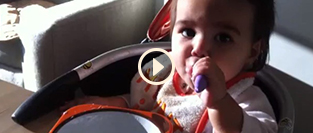
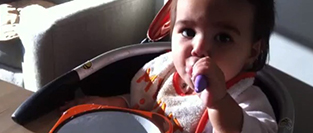
New Content
West Elm Knives and Happy Valentine's Day

Changed region(s): [[0.4313, 0.3609, 0.5751, 0.6617]]

diff --git a/index.html b/index.html
@@ -49,77 +49,56 @@
   			</nav>
       </header>
 
-      <div class="new-ribbon"><img src="img/new-ribbon.png" alt="new ribbon" width="30" height="42"></div>
-
-      <div class="new-ribbon2"><img src="img/new-ribbon.png" alt="new ribbon" width="30" height="42"></div>
-
       <section class="content" role="main">
 
-        <article class="pegg-x1 pegg-y1">
-            <div>
-            <img src="img/tree.jpg" alt="snow covered tree in sheep meadow central park new york city" width="313" height="313">
-            </div>
+        <article class="pegg-x1 pegg-y1 new">
+          <div>
+            <img src="img/knives.jpg" alt="west elm market damascus steel knives" width="313" height="313">
+          </div>
         </article>
 
         <article class="pegg-x6 pegg-y11">
-            <div>
-            <a class="audio-swap" href="http://ex.fm/song/dfslk" target="_blank"></a>
-            </div>
+          <div>
+            <a href="http://ex.fm/song/dfslk" target="_blank"><img src="img/album-cover.jpg" alt="album cover art" height="133" width="133"><div class="play-button">Play Video</div></a>
+          </div>
         </article>
 
         <article class="pegg-x1 pegg-y16">
-            <div>
+          <div>
             <img src="img/brothers.jpg" alt="old photo of brothers" width="313" height="133">
-            </div>
+          </div>
         </article>
 
         <article class="pegg-x11 pegg-y1">
-            <div>
+          <div>
             <img src="img/momandbean-small.jpg" alt="grandmother and daughter on chair" width="133" height="133">
-            </div>
-        </article>
-
-        <article class="pegg-x11 pegg-y6">
-            <div>
-            <img src="img/pizza.jpg" alt="homemade pizza" width="313" height="420">
-            </div>
-        </article>
-
-        <article class="pegg-x21 pegg-y1">
-            <div>
-            <img src="img/reese.jpg" alt="chocolate lab in the snow" width="133" height="133">
-            </div>
-        </article>
-
-        <article class="pegg-x26 pegg-y1">
-            <div>
-            <img src="img/photo-booth.jpg" alt="retro photo booth" width="133" height="133">
-            </div>
+          </div>
         </article>
 
         <article class="pegg-x21 pegg-y6">
-            <div>
-            <a class="video-swap" href="http://www.youtube.com/watch?v=fGSciM56SxA" target="_blank"></a>
-            </div>
-        </article>
-
-        <article class="pegg-x21 pegg-y11">
-            <div>
-            <img src="img/lili-bean.jpg" alt="child with bunny hat and mother" width="313" height="240">
-            </div>
-        </article>
-
-
-      <!-- <article class="pegg-x7 pegg-y15">
           <div>
-  					<blockquote>
-              <p>A man travels the world over in search of what he needs and returns home to find it.</p>
-                <footer>
-                  &ndash; <cite>George Moore</cite>
-                </footer>
-            </blockquote>
+            <img src="img/pizza.jpg" alt="homemade pizza" width="313" height="420">
           </div>
-        </article> -->
+        </article>
+
+        <article class="pegg-x21 pegg-y1">
+          <div>
+            <img src="img/reese.jpg" alt="chocolate lab in the snow" width="133" height="133">
+          </div>
+        </article>
+
+        <article class="pegg-x11 pegg-y6 new">
+          <div class="text-post-main">
+  					<div class="text-headline-main">Happy Valentine's Day</div>
+            <p>Today's Valentine's Day. Yeah, it's a trumped up holiday, so what. Have fun. I know I will. My baby and I are headed to <a href="http://www.blancanyc.com/" target="_blank">Blanca</a> in Brooklyn tonight for an epic 20+ course tasting menu. I'm super excited.</p>
+
+            <p>Dinner will be nice for sure, but at the end of the day what I'm most thrilled about is that I found her. A girl from Paraguay and a boy from South Jersey somehow got together. And made it work. It wasn't always easy either. I can admit that. We're both stubborn as hell. Still, to have fought to make this work (relationships are hard, stick with them though, they're worth it) is an incredible feeling. She really is an amazing woman and I'm beyond grateful for her.</p>
+
+            <p>There is so much I can say about her – the fact she's an amazing mother, a wonderfully supportive wife, and a super hottie to boot.</p>
+
+            <p>Mostly though, I'm delighted she's my best friend in the whole world. Thanks che for being my Valentine. Te quiero.</p>
+          </div>
+        </article>
 
       </section>
 

diff --git a/css/master.css b/css/master.css
@@ -62,7 +62,7 @@ body {
     z-index:0;
 }
 
-.peggboard::after {
+.peggboard:after {
     content:'';
     background: transparent url(../img/ribbon.png) no-repeat 0 0;
     height:123px;
@@ -193,6 +193,7 @@ article > div {
     border:10px solid #fdf0db;
     background:#FFF;
 	line-height:0px;
+    position:relative;
 }
 
 /****************************
@@ -285,50 +286,59 @@ TEXT POST
     display: block;
 }
 
+.text-post-main {
+    width: 258px;
+    height: 473px;
+    padding: 0 25px 20px 30px;
+}
+
+.text-post-main > p {
+    font-family: Arial, Helvetica, sans-serif;
+    font-size: 13px;
+    line-height: 17px;
+    color: #555;
+}
+
+.text-headline-main {
+    font-family: Arial, Helvetica, sans-serif;
+    font-size: 20px;
+    font-weight: bold;
+    color: #5F3817;
+    margin: 35px 0 20px 0;
+    display: block;
+}
+
 /****************************
 New Ribbon Overlay
 *****************************/
 
-.new-ribbon {
+article.new:before {
+    content: url(../img/new-ribbon.png);
+    width: 30px;
+    height: 42px;
+    right: 30px;
+    top: -2px;
     position: absolute;
-    top: 90px;
-    left: 300px;
-    z-index: 50;
+    z-index: 20;
 }
 
-.new-ribbon2 {
+.play-button {
     position: absolute;
-    top: 271px;
-    left: 661px;
-    z-index: 50;
-}
-
-.audio-swap {
-    display: block;
-    width: 133px;
-    height: 133px;
-    background: url(../img/album-cover.jpg);
+    background: transparent url(../img/playbutton.png) no-repeat 50%;
+    top:0;
+    left:0;
+    height:100%;
+    width:100%;
     -ms-transition:.2s;
     -moz-transition:.2s;
     -webkit-transition:.2s;
+    text-indent:-999px;
+    overflow:hidden;
 }
 
-.audio-swap:hover {
-    background: url(../img/album-cover-active.jpg);
-}
-
-.video-swap {
-    display: block;
-    width: 313px;
-    height: 133px;
-    background: url(../img/video-post.jpg);
-    -ms-transition:.2s;
-    -moz-transition:.2s;
-    -webkit-transition:.2s;
-}
-
-.video-swap:hover {
-    background: url(../img/video-post-active.jpg);
+article:hover .play-button {
+    background-image: url(../img/playbutton-active.png);
+    background-color: rgba(0, 0, 0, 0.6);
 }
 
 
